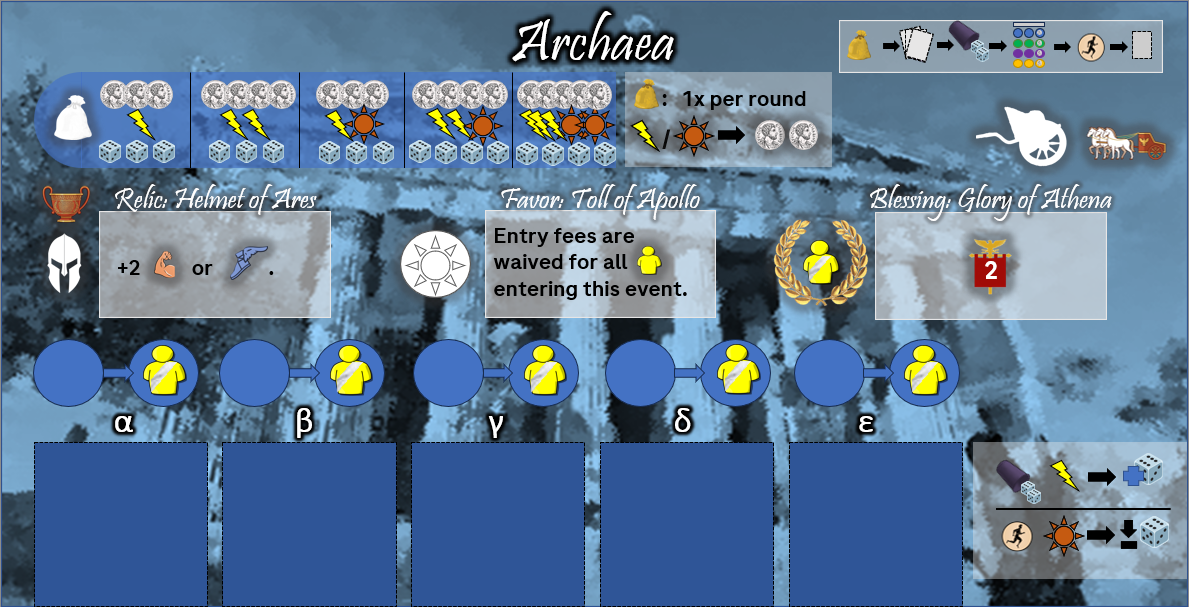
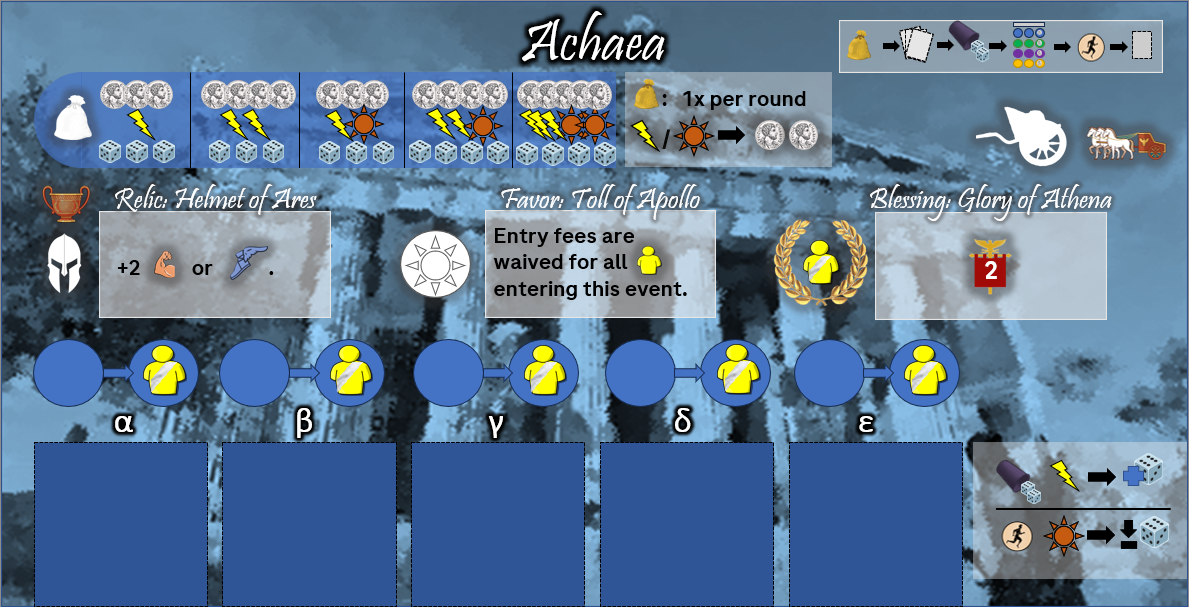
Playtable: load new Achaea + Colosseum board art; snap round counter to measured cells
- Replace AchaeaBoard.png and ColosseumBoard.png with the updated art.
- Round counter positioned from measured pixel centers (u 0.271-0.723, v 0.525)
  so the rings sit on the printed 0-6 cells.

Changed region(s): [[0.4045, 0.0, 0.5913, 0.1186]]

diff --git a/gas/JS_App.html b/gas/JS_App.html
@@ -70,7 +70,7 @@
     ...rowSlots(0.246, 0.326, 2, 0.063, TOK, 4.5),        // Green barracks
     ...rowSlots(0.431, 0.510, 2, 0.063, TOK, 4.5),        // Purple barracks
     ...rowSlots(0.618, 0.698, 2, 0.063, TOK, 4.5),        // Yellow barracks
-    ...rowSlots(0.266, 0.712, 7, 0.555, ['token'], 5),    // round counter 0-6
+    ...rowSlots(0.271, 0.723, 7, 0.525, ['token'], 5),    // round counter 0-6 (measured off art)
     ...colSlots(0.038, 0.42, 0.84, 4, ['token'], 5),      // relic track (4 rungs)
     ...colSlots(0.958, 0.40, 0.86, 5, ['token'], 5),      // chariot track (5 rungs)
     ...rowSlots(0.293, 0.643, 9, 0.895, ['token'], 4),    // event/era track (9 tiles)
